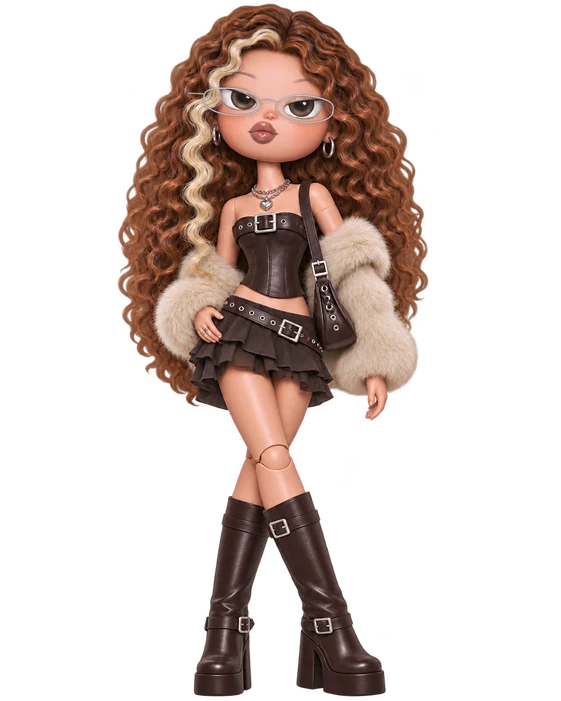
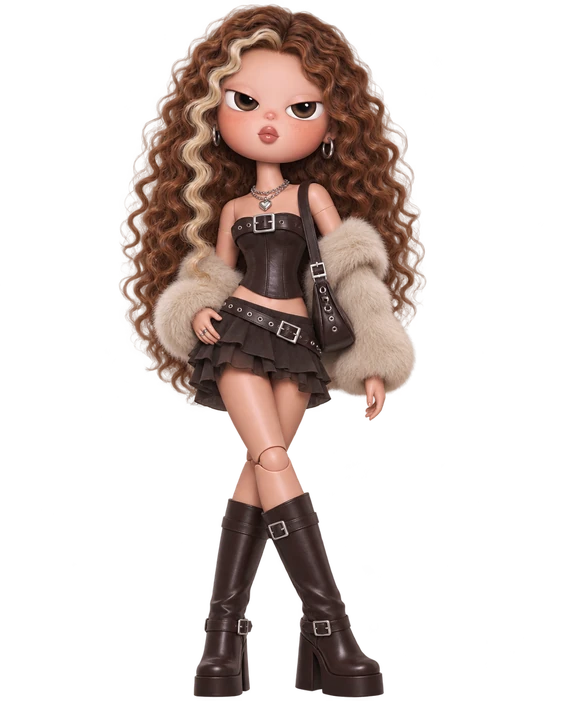
fix(pet): usar a imagem original da boneca, sem montagem nem óculos sobreposto

diff --git a/design/pet/montar_expressoes.py b/design/pet/montar_expressoes.py
@@ -106,6 +106,9 @@ def main():
     glasses.save(LAYERS / "oculos.png")
     base = Image.open(LAYERS / "corpo-sem-rosto.png").convert("RGBA")
     WEB.mkdir(parents=True, exist_ok=True)
+    # Imagem padrão do app = a boneca completa original da owner, sem nenhuma alteração (pedido de 11/11/2026).
+    original = Image.open(LAYERS / "boneca-completa.png").convert("RGBA")
+    original.resize((W // 2, H // 2), Image.LANCZOS).save(WEB / "tranquila.webp", "WEBP", quality=90, method=6)
     tiles = []
     for name, (eyes, mouth) in EXPRESSOES.items():
         im = base.copy()
@@ -113,7 +116,8 @@ def main():
             im.alpha_composite(Image.open(LAYERS / f"{layer}.png").convert("RGBA"))
         im.alpha_composite(glasses)
         # versão web: metade do tamanho, WebP com transparência
-        im.resize((W // 2, H // 2), Image.LANCZOS).save(WEB / f"{name}.webp", "WEBP", quality=88, method=6)
+        if name != "tranquila":  # a padrão é a original (acima); montagens só para expressões futuras
+            im.resize((W // 2, H // 2), Image.LANCZOS).save(WEB / f"{name}.webp", "WEBP", quality=88, method=6)
         tiles.append((name, im.crop((330, 20, 790, 460))))
     sheet = Image.new("RGBA", (460 * min(3, len(tiles)), 440 * ((len(tiles) + 2) // 3)), (239, 232, 227, 255))
     for i, (name, tile) in enumerate(tiles):

diff --git a/docs/decisoes/registro-de-decisoes.md b/docs/decisoes/registro-de-decisoes.md
@@ -49,7 +49,7 @@ Tratadas como aprovadas. Mudanças exigem decisão explícita da owner.
 | D-39 | (11/11/2026) **Importação de repositórios do GitHub como projetos** (decisão da owner, responde Q16). Somente leitura, com o token pessoal (`GITHUB_TOKEN`, só repositórios dos quais ela é dona) e tokens extras por organização (`GITHUB_ORG_TOKENS=org=token`; token fine-grained tem um único dono). Repositório de **organização** entra sempre como **Trabalho profissional**, com etiqueta da organização; **arquivado no GitHub** entra com etiqueta e status Arquivado; com push nos últimos 30 dias entra **Em andamento** (só o status inicial, editável; demais → Planejamento); já importado não duplica (único por workspace + repositório). A usuária escolhe categoria e cliente dos repositórios pessoais. Dados vêm do GitHub, nunca do navegador. Commits continuam sem afetar progresso |
 | D-40 | (11/11/2026) **"Projetos ativos" no Início = Planejamento + Em andamento** (pedido da owner: projeto iniciado a partir de ideia ou importado precisa aparecer). Pausados, concluídos e arquivados ficam fora. Toda criação/alteração no app avisa as telas abertas para recarregar (o Next 16 mantém páginas visitadas em memória) |
 | D-41 | (11/11/2026) **Pet em 2D por enquanto** (decisão da owner): ilustração 2D no estilo das referências (cabeça grande, olhos com pálpebra pesada, boca carnuda, sardas), cabelo **cacheado castanho acobreado com mechas loiras**, **óculos de armação fina prateada oval** (obrigatório) e roupa inicial cropped camuflado, calça preta larga, cinto de corrente e tênis preto. Arte em camadas enviada pela owner (corpo sem rosto, olhos, bocas; `design/pet/camadas`), montada em 6 expressões por `design/pet/montar_expressoes.py`; óculos desenhado como camada própria até vir a arte final. O 3D (D-28) fica para um **modelador profissional**; a pasta `design/blender` foi removida pela owner |
-| D-42 | (11/11/2026) **Pet implementado no Início** (widget "Seu pet", pedido da owner): estado por usuária e workspace (`PetState`), comidas concedidas uma única vez por ação real feita **depois** que o pet nasce (`PetAward` com índice único; nada retroativo): tarefa concluída → cereja, ideia → cupcake, marco → torta, projeto concluído → bolo, 3 dias seguidos alimentando → milkshake. Saciedade cai ~4/h; humor, nível e expressão pelas fórmulas do doc 03 §9.1; nunca morre (D-27). Imagem sempre na expressão padrão por enquanto (D-41). Perfil/nome: editável no próprio card |
+| D-42 | (11/11/2026) **Pet implementado no Início** (widget "Seu pet", pedido da owner): estado por usuária e workspace (`PetState`), comidas concedidas uma única vez por ação real feita **depois** que o pet nasce (`PetAward` com índice único; nada retroativo): tarefa concluída → cereja, ideia → cupcake, marco → torta, projeto concluído → bolo, 3 dias seguidos alimentando → milkshake. Saciedade cai ~4/h; humor, nível e expressão pelas fórmulas do doc 03 §9.1; nunca morre (D-27). Imagem = **a boneca completa original enviada pela owner, sem alterações** (sem óculos sobreposto, sem montagem de camadas), até virem expressões aprovadas. Perfil/nome: editável no próprio card |
 | D-19 | (10/11/2026) **Login só com e-mail e senha**, sem 2FA no MVP. A conta da owner é pré-configurada pelo e-mail (variável `OWNER_EMAIL`, fora do repositório) e a senha é definida no primeiro acesso. Substitui ADR-014 |
 
 ## 2. Propostas aguardando aprovação (ADRs resumidos)
